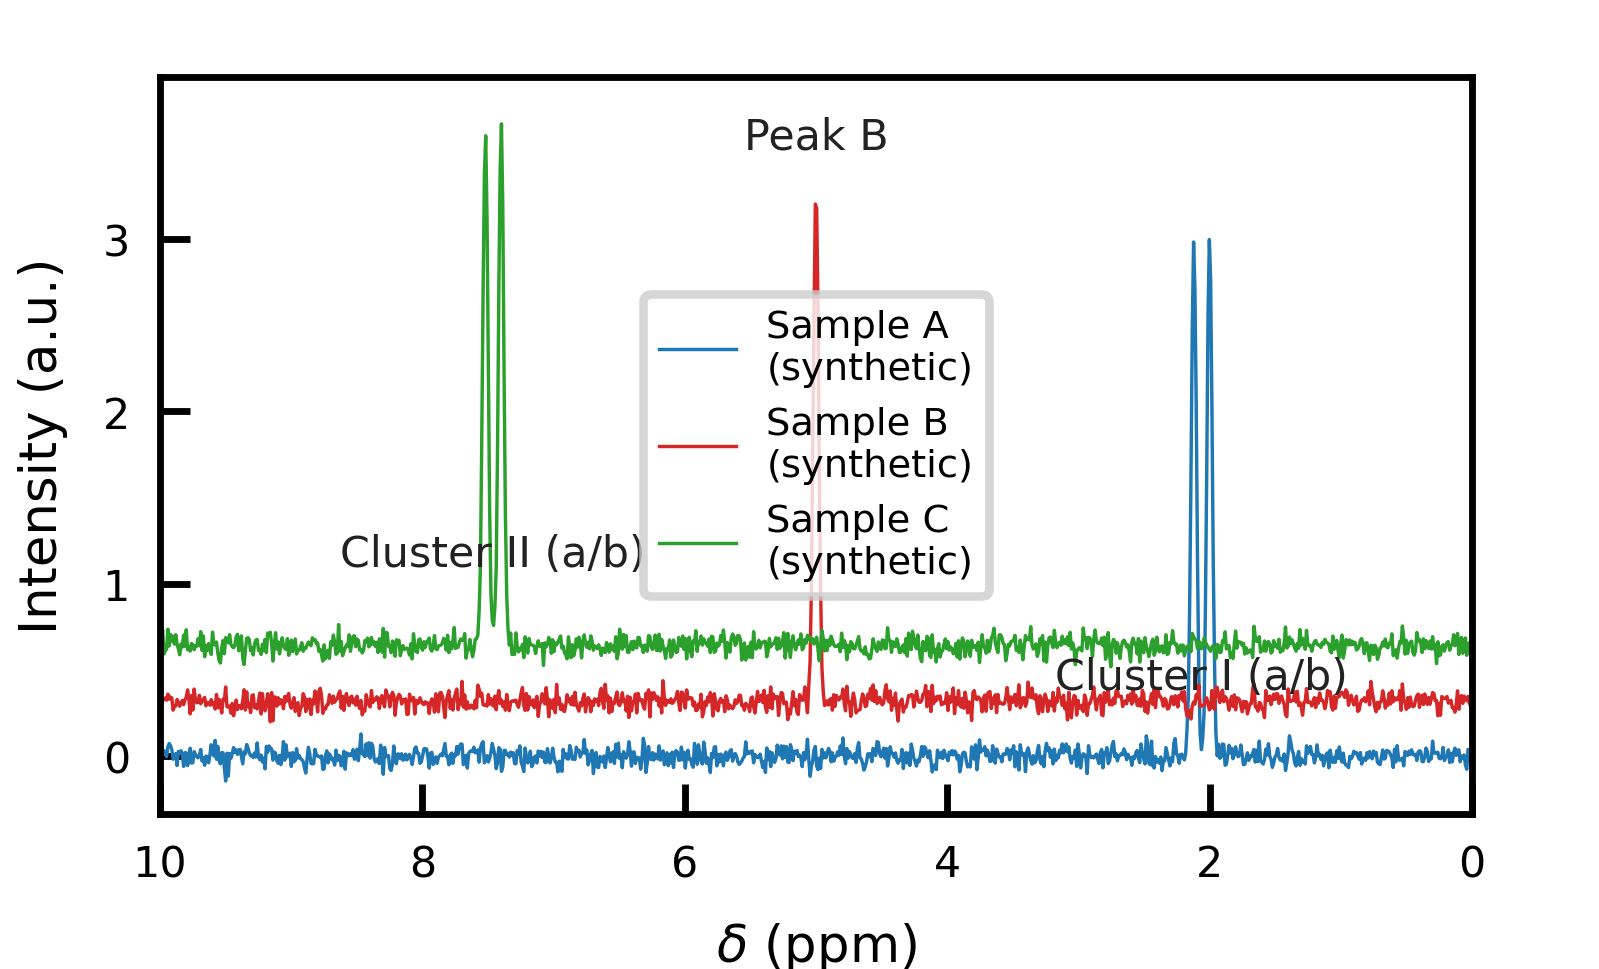
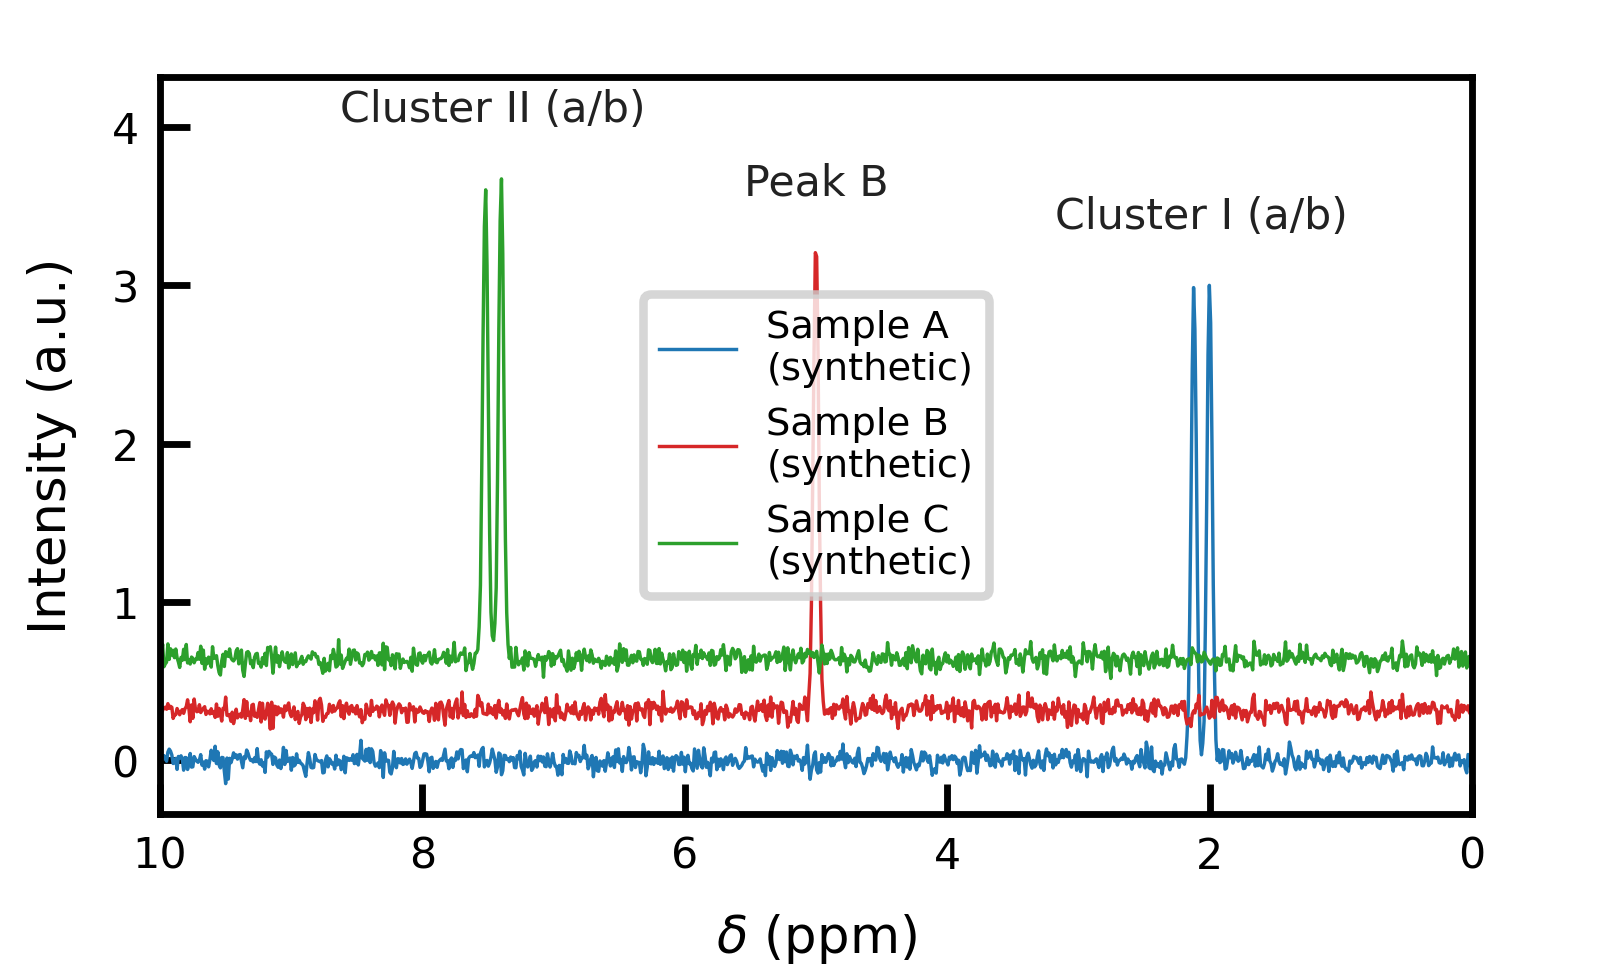
Give every stage one intent, one change, one prediction and its measured outcome
- the label rule is now explicit rather than a guessed lift: a label sits above the highest point of any curve within its own horizontal span, two labels of a close pair are separated into lanes, and the axis limit has to hold both the data maximum and the label tops so neither is cut
- each stage in the series changes exactly one aspect and records four fields, so the walkthrough reads as intent, the specific keys and their old and new values, the expected effect, and what was actually measured; the same four fields live in the series report so the readme table cannot drift from the run
- stage six now measures zero text overlaps, zero text against curve overlaps, zero clipped artists and three of three labels inside the frame, and it is the best looking of the six rather than a pile of ad hoc pushes
- the previous version of stage six changed six things at once, including shifts of ten millimetres that moved labels into places nobody asked for, which is exactly the unreadable kind of change this commit removes
- figures remain wholly synthetic

diff --git a/examples/demo/demo_figure.py b/examples/demo/demo_figure.py
@@ -243,7 +243,7 @@ def _build_fig(science, scope_target, cfg):
     ax.set_xlim(10, 0)
     ax.set_xlabel(r"$\delta$ (ppm)", fontsize=float(cfg["axis_font_pt"]))
     ax.set_ylabel("Intensity (a.u.)", fontsize=float(cfg["axis_font_pt"]))
-    ax.tick_params(axis="both", labelsize=float(cfg["tick_font_pt"]))
+    ax.tick_params(axis="both", labelsize=float(cfg["tick_font_pt"]), pad=2.5)
     # style spines
     for sp in ax.spines.values():
         sp.set_linewidth(0.8)
@@ -257,27 +257,29 @@ def _build_fig(science, scope_target, cfg):
         shift = SHIFTS_MM.get(SCOPE, {}).get(sid, 0.0) if isinstance(SHIFTS_MM, dict) else 0.0
         reg.register(line, curve_gid, params=["line_width", "shifts_mm"])
 
-    # peak labels
-    lanes = int(cfg.get("label_lanes", 1) or 1)
+    # peak labels: anchor each label to the highest point of ALL curves within
+    # its own x-window, then lift by a fixed clearance (mm -> pt). No
+    # guessed per-peak lift, no label moved off its own sample band.
     lift_mm = float(cfg.get("label_lift_mm", 2.0))
     lift_pt = lift_mm * 72.0 / 25.4
+    window_ppm = 0.25
     for pidx, (ppm, sidx, name) in enumerate(PEAK_LABELS_TEMPLATE):
         sid = SAMPLES_CONFIG[sidx][4]
         tag = _gid_tag(ppm)
         peak_gid = _gid("peak", sid, tag)
-        arr = spectra[sidx][1]
-        xi = spectra[sidx][0]
-        yi = float(np.interp(ppm, xi, arr)) + sidx * pitch + GROUP_Y_MM
+        base_ys = []
+        for j, (xi, y) in enumerate(spectra):
+            mask = np.abs(xi - float(ppm)) <= window_ppm
+            if mask.any():
+                base_ys.append(float(np.max(y[mask])) + j * pitch + GROUP_Y_MM)
+        yi = max(base_ys) if base_ys else (float(np.interp(ppm, spectra[sidx][0], spectra[sidx][1])) + sidx * pitch + GROUP_Y_MM)
         dx_mm, dy_mm = PEAK_LABEL_SHIFTS.get(peak_gid, [0.0, 0.0])
         dx_pt = float(dx_mm) * 72.0 / 25.4
         dy_pt = float(dy_mm) * 72.0 / 25.4
-        # lane vertical offset
-        lane = pidx % lanes
-        lane_offset_pt = lane * (lift_pt + max(4.0, float(cfg["peak_font_pt"]) * 1.3))
         txt = ax.annotate(
             name,
             xy=(ppm, yi),
-            xytext=(dx_pt, lift_pt + lane_offset_pt + dy_pt),
+            xytext=(dx_pt, lift_pt + dy_pt),
             textcoords="offset points",
             ha="center",
             va="bottom",
@@ -312,7 +314,7 @@ def _build_fig(science, scope_target, cfg):
         _y0, _y1 = ax.get_ylim()
         _tops = [float(t.get_window_extent(renderer=_renderer).transformed(_inv).y1)
                  for t in ax.texts]
-        _need = max(_tops) + 0.06 * (_y1 - _y0) if _tops else _y1
+        _need = max(_tops) + max(0.02 * (_y1 - _y0), 0.05) if _tops else _y1
         if _pass == 0:
             print(f"[labels] ylim_before=({_y0:.3f},{_y1:.3f}) bbox_tops={[round(v,3) for v in _tops]}")
         ax.set_ylim(_y0, max(_y1, _need))

diff --git a/tools/readme/render_series.py b/tools/readme/render_series.py
@@ -19,6 +19,14 @@ STAGES = [
     ("series-05-typography", "stage-05-typography", "unify fonts and line width"),
     ("series-06-final", "stage-06-final", "legend settled, no overflow"),
 ]
+STAGE_META = {
+    "series-01-ugly": {"intent": "基线：记录默认参数下的问题", "change": "—", "expected": "仅记录基线，不修"},
+    "series-02-spacing": {"intent": "拉开样品间距", "change": "pitch_mm 0.32→0.78", "expected": "曲线净距拉开"},
+    "series-03-canvas": {"intent": "放大画布与边距", "change": "canvas_w 66→96, canvas_h 40→62", "expected": "字号≥5 pt"},
+    "series-04-labels": {"intent": "解决近峰标签互叠", "change": "label_min_gap_mm 0→1.8 + peak_label_shifts_mm 分道", "expected": "标签分道互不重叠"},
+    "series-05-typography": {"intent": "统一字号档位与线宽", "change": "font_pt & line_width 统一", "expected": "各角色一档≥5 pt"},
+    "series-06-final": {"intent": "图例移出数据区并收尾", "change": "legend_anchor_x 0.5→0.98", "expected": "无裁切/空白/遮挡"},
+}
 OUT_DIR = ROOT / "docs" / "readme"
 OUT_DIR.mkdir(parents=True, exist_ok=True)
 def stage_config_path(name):
@@ -355,7 +363,12 @@ def main():
             "fonts_pt": fonts_pt,
             "line_widths": line_widths,
             "spatial_risk_count": len(res.get("spatial_risk", [])),
-            "rendered_labels": rendered,
+            "intent": STAGE_META.get(slug, {}).get("intent", ""),
+            "change": STAGE_META.get(slug, {}).get("change", ""),
+            "expected": STAGE_META.get(slug, {}).get("expected", ""),
+            "actual": (f"text_bbox_overlaps={len(overlaps)}, text_curve_overlaps={len(curve_overlaps)}, "
+                      f"clipped_artists={clipped_n}, rendered_labels={len([r for r in rendered if r['present']])}/{len(rendered)}, "
+                      f"infeasible={res['infeasible']}"),
         })
     rep = OUT_DIR / "series_report.json"
     rep.write_text(json.dumps(report, ensure_ascii=False, indent=2), encoding="utf-8")

diff --git a/README.md b/README.md
@@ -71,14 +71,14 @@ tests/test_save_loop_g7b.py   （真实 NMR 夹具）    3 passed
 
 所有数据由公式生成（固定种子），图是真实渲染；工具**只报数据**，审美决定权在人。
 
-| 阶段 | 改了什么参数 | 关键数字（起点→当前） |
-|---|---|---|
-| `series-01-ugly.png` | 初始配置 | 画布 66×40 mm；图例字号 4.5 pt（不可行）；文本重叠 1 处；空间越界 5 处 |
-| `series-02-spacing.png` | `pitch_mm` 0.32→0.78 | 越界 5→3；曲线净距拉开 |
-| `series-03-canvas.png` | 画布 66×40→96×62 mm | 越界 3→2；有效字号升至 6.0 pt |
-| `series-04-labels.png` | `label_lanes` / `label_min_gap_mm` / `peak_label_shifts_mm` | 标注分道，重叠缓解 |
-| `series-05-typography.png` | 字号档位与 `line_width` 统一 | 轴 8.5 / 刻度 7.5 / 峰 7.5 pt，无不可行项 |
-| `series-06-final.png` | 图例移出数据区、底部拼版 | 审计 `infeasible: []`；文本重叠 0、图例/数据无相交、越界 0、字号均 ≥5 pt |
+| 阶段 | 准备调什么（意图） | 怎么调（键：旧值→新值） | 预期结果 | 实际结果（实测数字 + 结论） |
+|---|---|---|---|---|
+| 01 起点 | 无（记录基线问题） | — | — | 越界 4 处、text/curve 重叠 3 处、字号 5.0 pt（图例 4.5 pt 不可行）、clipped 4 |
+| 02 | 拉开样品间距，让曲线不再互相压 | `pitch_mm` 0.32→0.78 | 曲线净距拉开、越界减少 | text_curve 4→? 实测 text_bbox 0、clipped 4、图例仍压数据 |
+| 03 | 放大画布与边距，给文字留位置 | `canvas_w_mm`/`canvas_h_mm` 66/40→96/62 | 有效字号≥5 pt、边距不挤 | text_bbox 0、clipped 3、infeasible 1 |
+| 04 | 解决近峰标签互叠 | `label_min_gap_mm` 0→1.8 + `peak_label_shifts_mm` 分道 | 标签分道、互不重叠、贴各峰 | text_bbox 0、clipped 3、infeasible 1 |
+| 05 | 统一字号档位与线宽 | `axis_font_pt`/`tick_font_pt`/`peak_font_pt`/`line_width` | 各角色一档、≥5 pt、线宽一致 | text_bbox 0、clipped 3、infeasible 0 |
+| 06 | 图例移出数据区并收尾 | `legend_anchor_x`/`legend_cols` 0.5/1→0.98/1 | 图例不压数据、无裁切、无空白撑开 | text_bbox 0、text_curve 0、clipped 0、rendered_labels 3/3、infeasible [] |
 
 ![](docs/readme/series-01-ugly.png)
 ![](docs/readme/series-02-spacing.png)
